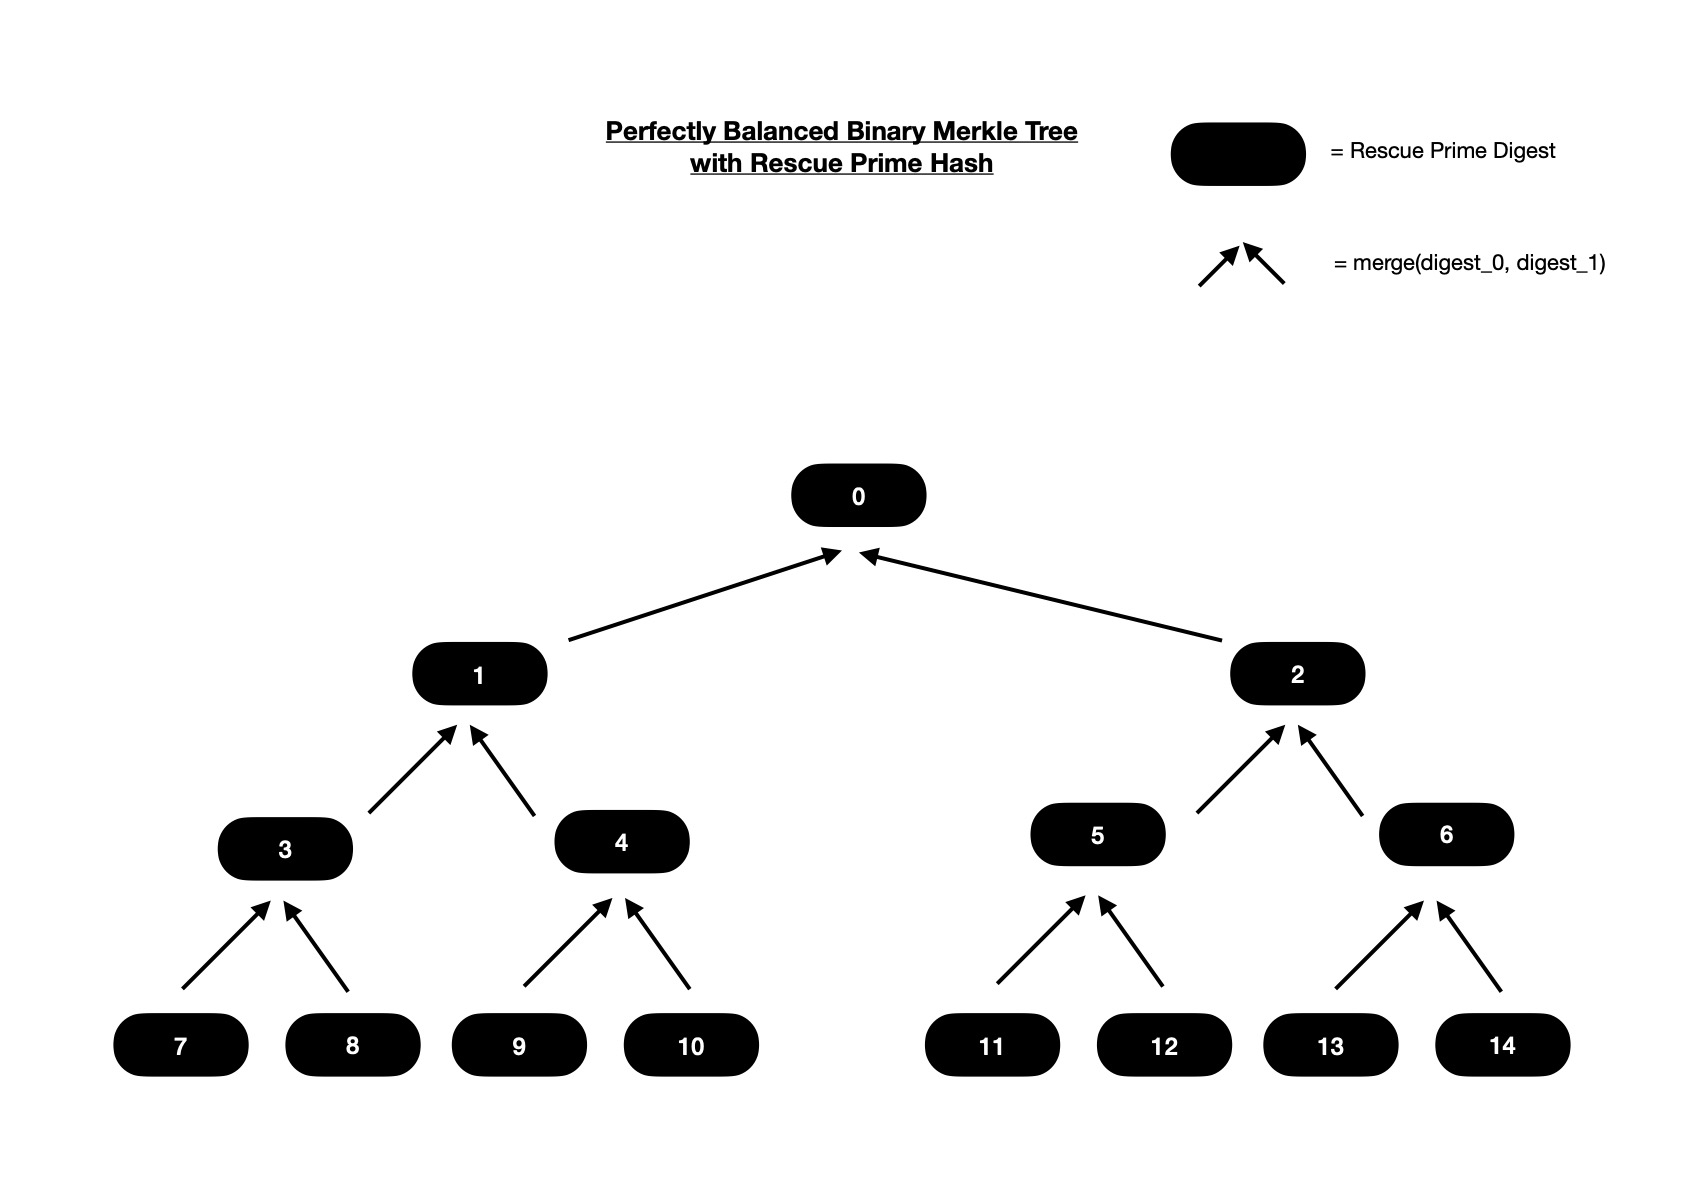
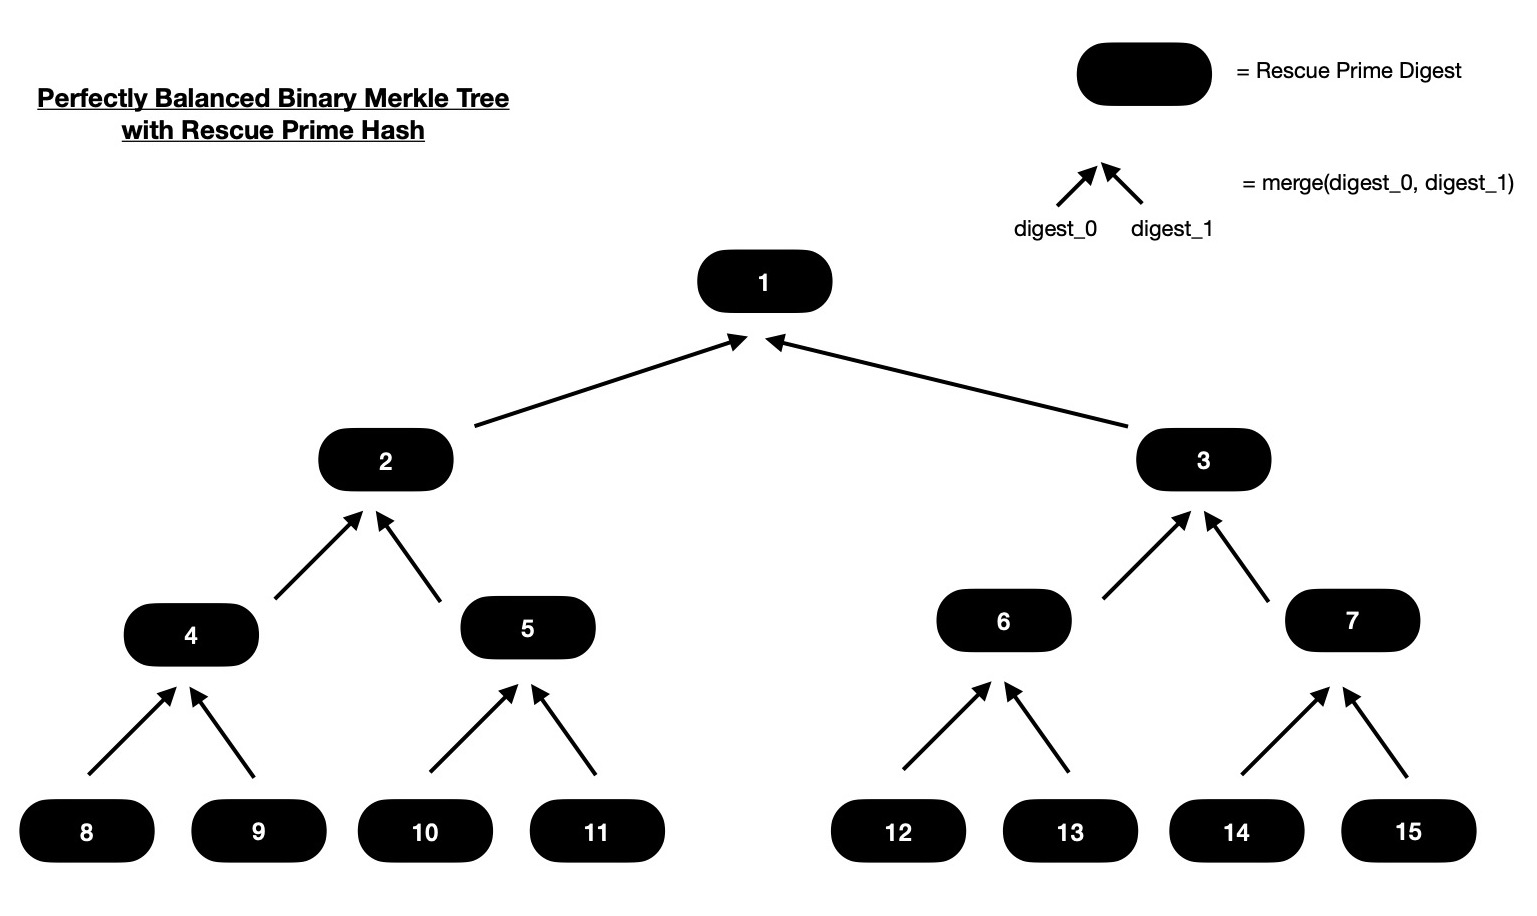
step by step merkle tree construction

diff --git a/pages/opencl-accelerated-merkle-tree-construction.html b/pages/opencl-accelerated-merkle-tree-construction.html
@@ -110,11 +110,64 @@
                     In following explanation, I design one function which takes N-many Rescue Prime Digests,
                     which are interpreted as leaves of Merkle Tree and as output that function produces all intermediate
                     nodes of Merkle tree. These intermediate nodes are nothing but Rescue Prime digests of two children nodes. I consider perfectly 
-                    balanced binary Merkle Tree i.e. each non-leaf node has exactly two children and all leaves are living at same depth. I also fix that N can only be power of 2.
-                    That means with N-many leaves provided, I should construct all intermediate nodes of a Merkle Tree with log<sub>2</sub>N levels or in other words Merkle tree of height (log<sub>2</sub>N + 1). 
+                    balanced binary Merkle Tree i.e. each non-leaf node has exactly two children and all leaves are living at same depth. Naturally N can only be power of 2.
+                    That means with N-many leaves provided, I should construct all intermediate nodes of a Merkle Tree with log<sub>2</sub>N levels or in other words Merkle tree of height (log<sub>2</sub>N + 1).
                     So there should be (N - 1)-many intermediate nodes to compute of Merkle Tree with total (2N - 1) nodes. Let's take an example for better understanding.
                 </p>
                 <img class="imgCenter" src="../images/opencl-accelerated-merkle-tree-construction-0.jpg">
+                <p class="blogText">
+                    In above diagram, I've a binary Merkle Tree with 8 leaves. Each consequtive pair of leaves
+                    are merged together for obtaining deepest level of intermediate nodes, who are living just above leaves.
+                    Similarly those intermediate nodes are paired together for hashing and obtained digests will live on intermediate node
+                    layer just above it. This procedure continues until we reach root node. If interested you can dig deep into Merkle Tree construction,
+                    while starting <a class="blogLink" target="_blank" href="https://en.wikipedia.org/wiki/Merkle_tree">here</a>.
+                    Notice how tree nodes are numbered. Assume that as input following array is provided, which are considered as leaves of Merkle Tree.
+                    Output should have (N - 1)-many intermediate node digests.
+                </p>
+                <div class="microlight">
+    leaves = [a, b, c, d, e, f, g, h]
+
+    n = len(leaves)
+    assert (n & (n - 1)) == 0 # power of 2 check
+                </div>
+                <p class="blogText">
+                    Output should be placed in an one dimensional array of length N such 1<sup>st</sup> element ( i.e. at index zero ) is empty,
+                    2<sup>nd</sup> element is obtained by hashing elements at index 2 and 3 ( in ordered fashion ). Similarly element at index 2 of output array
+                    is computed by hashing elements at index 4 and 5. This means element at index <i>i</i> of output array is computed by hashing elements
+                    at index <i>(2 * i)</i> and <i>(2 * i + 1)</i>, generally speaking. This also means, I've to start filling output array backwards.
+                    First I'll pair consequtive elements in input array of length N and compute Rescue Prime Hash ( read <span class="highlight">merge(digest_0, digest_1)</span> function )
+                    for each pair. This should give me (N >> 1)-many intermediate nodes, who live just above leaf nodes.
+                </p>
+                <div class="microlight">
+    leaves = [a, b, c, d, e, f, g, h] # input
+    N = len(leaves)
+
+    intermediates = [merge(a, b), merge(c, d), merge(e, f), merge(g, h)] # computed during this round
+                  = [i, j, k, l]
+
+    n = len(intermediates)
+    assert n == N >> 1
+
+    output = [0, _, _, _, intermediates ...] # ... => spread operator
+           = [0, _, _, _, merge(a, b), merge(c, d), merge(e, f), merge(g, h)] # _ => not yet computed
+           = [0, _, _, _, i, j, k, l]
+                </div>
+                <p class="blogText">
+                    In next step of computation I'll calculate Rescue Prime hashes on intermediate nodes computed during previous round. I'll pair consequtive intermediate nodes
+                    and compute Rescue Prime merge function on them for getting (N >> 2)-many new intermediate nodes.
+                </p>
+                <div class="microlight">
+    intermediates = [i, j, k, l]
+
+    intermediates_new = [merge(i, j), merge(k, l)]
+                      = [m, n]
+
+    n = len(intermediates_new)
+    assert n == N >> 2
+
+    output = [0, _, intermediates_new ..., i, j, k, l]
+           = [0, _, m, n, i, j, k, l] # _ => not yet computed
+                </div>
            </article>
         </div>
     </div>
